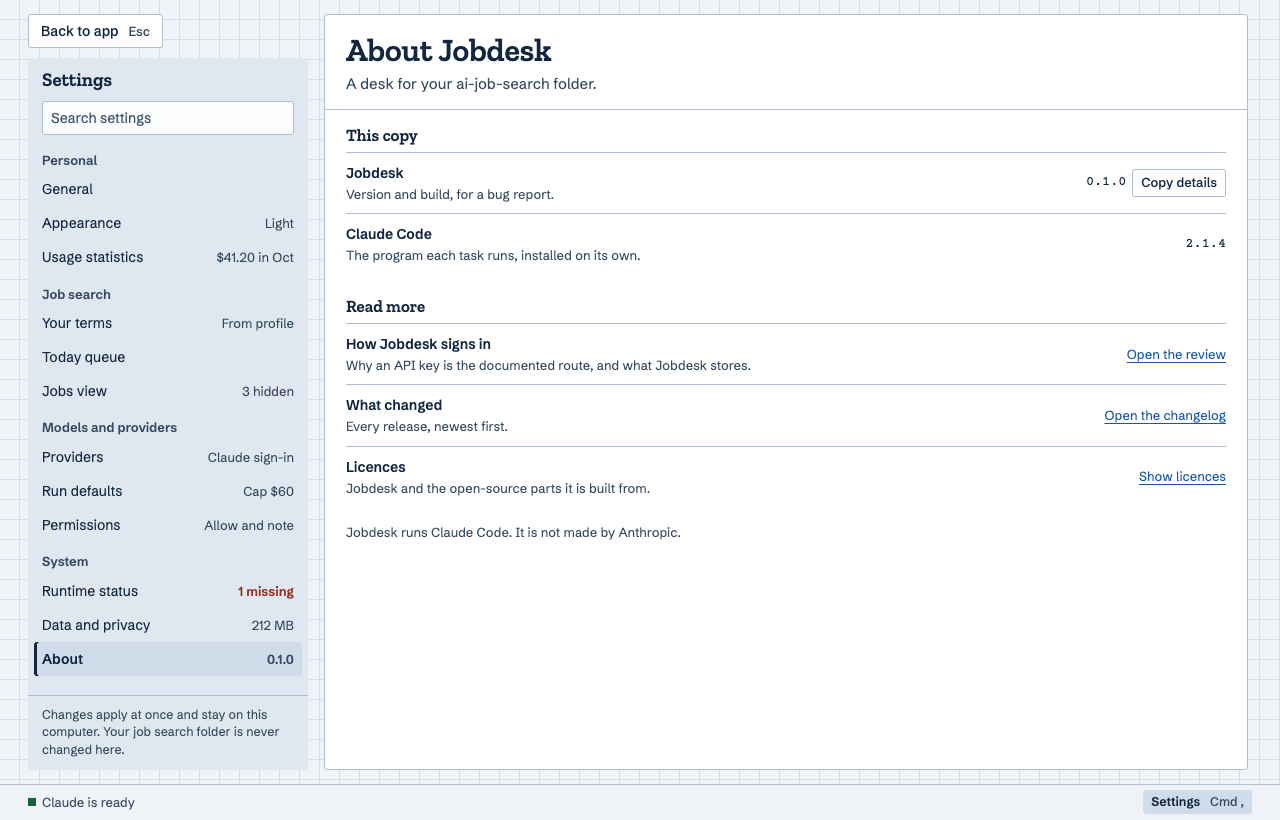
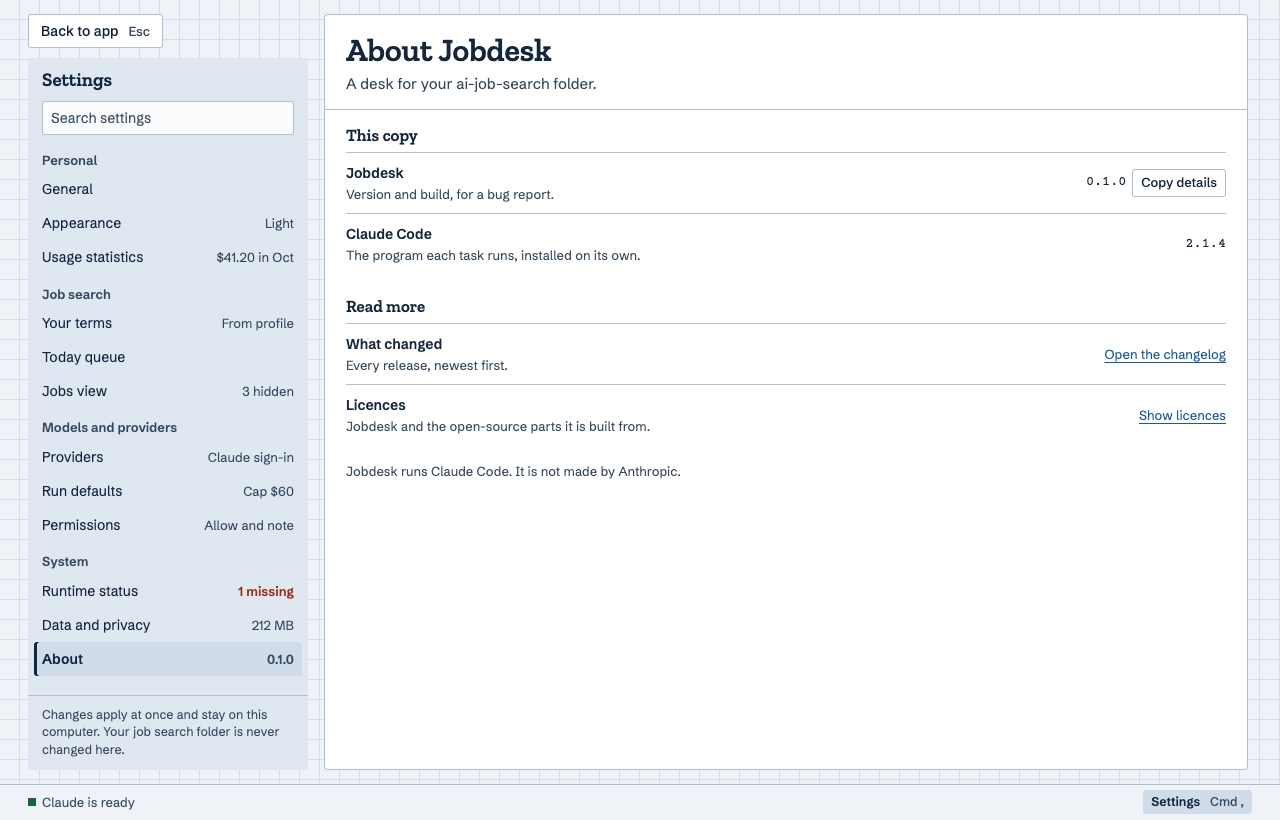
docs: refresh README and docs, drop the auth review (#39)
The README now shows one light-mode screenshot, and the docs match the
current app. The auth review page is gone, with its link in Settings.

- README shows a single light-mode screenshot and lists Settings
- Guide, architecture and contributing docs updated to match the code:
  Settings pages, Today queue, quit question, installers, release and CI
- Remove docs/auth-review.md and every link to it
- Remove the "How Jobdesk signs in" row from Settings › About

diff --git a/mockups/Settings.html b/mockups/Settings.html
@@ -610,7 +610,6 @@ function a_about() {
       sr('Jobdesk', 'Version and build, for a bug report.', '<span class="path">0.1.0</span>' + B('Copy details', 'sm')) +
       sr('Claude Code', 'The program each task runs, installed on its own.', '<span class="path">2.1.4</span>')) +
     sec('Read more', '',
-      sr('How Jobdesk signs in', 'Why an API key is the documented route, and what Jobdesk stores.', `<span class="lk">Open the review</span>`) +
       sr('What changed', 'Every release, newest first.', `<span class="lk">Open the changelog</span>`) +
       sr('Licences', 'Jobdesk and the open-source parts it is built from.', `<span class="lk">Show licences</span>`)) +
     `<p class="muted" style="margin-top: 16px; font-size: 13px">Jobdesk runs Claude Code. It is not made by Anthropic.</p>`;

diff --git a/src/settings/ui/about.rs b/src/settings/ui/about.rs
@@ -5,8 +5,7 @@ use crate::settings::ui::page_note;
 use crate::ui_kit::tokens::DISABLED_OPACITY;
 use crate::ui_kit::{Ink, Type, enabled_when, link, rich, setting_row, setting_section, small_button};
 
-/// Where the review of how Jobdesk signs in, and the changelog, are read. Fixed `https` addresses, never read from a file.
-const REVIEW_URL: &str = "https://github.com/Nicolas-Widart-SRL/jobdesk/blob/main/docs/auth-review.md";
+/// Where the changelog is read. A fixed `https` address, never read from a file.
 const CHANGELOG_URL: &str = "https://github.com/Nicolas-Widart-SRL/jobdesk/blob/main/CHANGELOG.md";
 /// Why Show licences waits: the repository has no licence file to show yet.
 const NO_LICENCES: &str = "Not available yet.";
@@ -22,9 +21,7 @@ pub struct AboutView<'a> {
 
 /// The two versions with Copy details, the links to read more, then who makes Jobdesk. No logo shows anywhere.
 pub fn body(ui: &mut Ui, view: AboutView, query: &str) {
-    let &[this_copy, jobdesk, jobdesk_help, claude, claude_help, read_more, signs_in, signs_in_help, changed, changed_help, licences, licences_help, maker] =
-        index(Page::About)
-    else {
+    let &[this_copy, jobdesk, jobdesk_help, claude, claude_help, read_more, changed, changed_help, licences, licences_help, maker] = index(Page::About) else {
         return;
     };
     setting_section(ui, this_copy, None, query);
@@ -47,7 +44,6 @@ pub fn body(ui: &mut Ui, view: AboutView, query: &str) {
         }
     });
     setting_section(ui, read_more, None, query);
-    setting_row(ui, signs_in, signs_in_help, query, |ui| open(ui, "Open the review", REVIEW_URL));
     setting_row(ui, changed, changed_help, query, |ui| open(ui, "Open the changelog", CHANGELOG_URL));
     setting_row(ui, licences, licences_help, query, |ui| {
         // A link paints no disabled look of its own, so it fades here.

diff --git a/src/settings/domain/pages.rs b/src/settings/domain/pages.rs
@@ -265,15 +265,13 @@ const DATA: [&str; 11] = [
 ];
 
 /// The versions, the links, then the line on who makes Jobdesk.
-const ABOUT: [&str; 13] = [
+const ABOUT: [&str; 11] = [
     "This copy",
     "Jobdesk",
     "Version and build, for a bug report.",
     "Claude Code",
     "The program each task runs, installed on its own.",
     "Read more",
-    "How Jobdesk signs in",
-    "Why an API key is the documented route, and what Jobdesk stores.",
     "What changed",
     "Every release, newest first.",
     "Licences",

diff --git a/src/settings/ui/mod.rs b/src/settings/ui/mod.rs
@@ -1239,7 +1239,7 @@ mod tests {
         harness.get_by_label("About Jobdesk");
         harness.get_by_label("2.1.4");
         assert!(harness.get_by_label("Show licences").accesskit_node().is_disabled(), "there is no licence file to show yet");
-        assert!(!harness.get_by_label("Open the review").accesskit_node().is_disabled());
+        assert!(!harness.get_by_label("Open the changelog").accesskit_node().is_disabled());
     }
 
     #[test]

diff --git a/docs/guide.md b/docs/guide.md
@@ -6,13 +6,13 @@ Jobdesk is a native macOS and Windows view over an [ai-job-search](https://githu
 
 ## Today
 
-Today is the home screen: one queue of decisions, one card at a time, with paused runs first, then deadlines, then the rest. The day stamp counts what you decided today, and Coming up lists the next two weeks' deadlines, with a button to bring back what you set aside. Settings › Today queue changes the range to 7 or 30 days, and the same range decides which deadlines come before the rest.
+Today is the home screen: one queue of decisions, one card at a time, with paused runs first, then deadlines, then the rest. The day stamp counts what you decided today, and Coming up lists the next two weeks' deadlines, with a button to bring back what you set aside. Settings › Today queue changes the range to 7, 14 or 30 days, and the same range decides which deadlines come before the rest.
 
 Y opens the suggested task, L sets the card aside (Coming up shows how many, and its button brings them back to the front, after any paused run) until tomorrow, or for as long as Settings › Today queue says, but never past the card's own date, unless that date is the day you press L or earlier: then it comes back the day after you pressed L, N skips, U undoes the last decision. Until your next one, and only that day, it waits at the top of Done today, where a skip also takes its optional reason. The reasons are your list in Settings › Today queue. A followed card's note names the task it opened, for example "Task opened: draft application".
 
 The card's actions stay pinned under it, and Show the command reveals the command line a task would run. Y opens the slash command in the launcher, and nothing runs until you start it. Permission, question, guard and Your turn cards have no Y action. Skip reasons stay in the app's data folder, and a past skip keeps its reason after you take that reason off the list.
 
-When nothing is left to decide, Today offers Find new jobs…. It shows a loading view while your files first load, and a welcome with three steps until you choose a folder. Its second step points to Profile, which shows each topic, what is filled in and what is missing.
+When nothing is left to decide, Today offers Find new jobs…, and Score 1 new job… or Score N new jobs… while new jobs wait to be scored. Both only open the launcher. Today shows a loading view while your files first load, and a welcome with three steps until you choose a folder. Its second step points to Profile, which shows each topic, what is filled in and what is missing.
 
 ## Jobs, Applications and Insights
 
@@ -36,6 +36,8 @@ When Claude waits on you, the Tasks tab counts it, Recent runs tags the run Your
 
 End session asks first, and Keep it open is the default. New task (Cmd+K, Ctrl+K on Windows) opens the command launcher, even while you type in a field. In the launcher, Cmd+Enter (Ctrl+Enter on Windows) runs the task, and Esc goes back.
 
+Quitting while a Claude session is open asks first. Keep working is the default, and Esc keeps working too. End session and quit ends the session, and you can resume it later from Tasks.
+
 ## One run at a time
 
 Only one run works at a time, because two commands could overwrite each other's files. A session waiting for your reply lets a new run start only once its turn has ended and all its background agents have finished. A Save on the Profile screen waits for the run too.
@@ -46,20 +48,20 @@ Text in Claude's messages and questions, your replies, error alerts, command lin
 
 ## Settings
 
-Settings (Cmd+, , Ctrl+, on Windows, or Settings at the right of the status bar) replaces the menu and the screen until you press Back to app or Esc. A task keeps running meanwhile, and the status bar says when one waits for you. The rail groups the sections. A word beside a section says its state where it has one: the theme beside Appearance, what is missing or still to fill beside Runtime status, this month's spend beside Usage statistics, the sign-in tasks use, or Key refused, beside Providers, and how many of your terms are not stated, or Hidden when their file cannot be read, beside Your terms. Search keeps only the sections with a match and marks the matched words. Esc clears the search first. Changes apply at once and stay on this computer. If the settings file cannot be read, the rail's foot says so: the defaults are in use, and your next change replaces the file. If a change cannot be saved, it says the change lasts until Jobdesk closes. On the first launch after the theme moved into Settings, the theme and text size you had are kept. An older version of Jobdesk drops the settings it does not know the next time it saves the settings file, so it forgets the sign-in you chose and its tasks use the Claude sign-in. Your API key stays in the keychain. Back on this version, choose Use for tasks on the API key again.
+Settings (Cmd+, on macOS, Ctrl+, on Windows, or Settings at the right of the status bar) replaces the menu and the screen until you press Back to app or Esc. A task keeps running meanwhile, and the status bar says when one waits for you. The rail groups the sections under Personal, Job search, Models and providers, and System, in the order below. A word beside a section says its state where it has one: the theme beside Appearance, what is missing or still to fill beside Runtime status, this month's spend beside Usage statistics, the sign-in tasks use, or Key refused, beside Providers, and how many of your terms are not stated, or Hidden when their file cannot be read, beside Your terms. Search keeps only the sections with a match and marks the matched words. Esc clears the search first. Changes apply at once and stay on this computer. If the settings file cannot be read, the rail's foot says so: the defaults are in use, and your next change replaces the file. If a change cannot be saved, it says the change lasts until Jobdesk closes. On the first launch after the theme moved into Settings, the theme and text size you had are kept. An older version of Jobdesk drops the settings it does not know the next time it saves the settings file, so it forgets the sign-in you chose and its tasks use the Claude sign-in. Your API key stays in the keychain. Back on this version, choose Use for tasks on the API key again.
 
 - General: your job search folder, with Show in Finder (Show in Explorer on Windows) and Change folder, and the screen Jobdesk opens on. Without a folder, Jobdesk opens on Today. While a Claude session is open, even one waiting on your reply, Change folder waits here and on Setup, so the task keeps its folder. In Tasks, stop it (Stop run) if it is working, then end it (End session).
 - Appearance: the theme (System, Light or Dark), the text size from 90 to 150 percent (Cmd + and Cmd −, Ctrl + and Ctrl − on Windows, change it too), and Reduce motion, which drops the card slide and the day stamp's fill.
-- Runtime status: Claude Code's version and the sign-in the last task used, then how many profile topics are filled, with Open Profile, and your tools, portals, templates and sync, as Setup shows them. The tools' ready count leaves out Claude Code, which has its own row above. Until a folder is chosen and read, only Claude Code and the tools show, and a search matches only those.
 - Usage statistics: what your tasks cost and did, from Jobdesk's own run logs for this folder. It counts tasks only and fetches nothing. A period toggle picks the current month, the last 90 days, This year or All time. Four figures follow: Spent, Tokens in (with tokens out in the note), Cache hits, and Tasks, split into finished, stopped and failed. Per application sent divides every task's cost by the applications you marked sent in the period, and hides when there are none. Below sit the last 12 months by day: hover a day, or Tab to a day with tasks, to see its date, tasks and spend. Then come two tables, By command and By model.
-- Your terms: the lines a job may not cross, which Jobs checks every posting against: the contract rule, Freelance only, your day-rate floor from `01-candidate-profile.md`, and your commute tiers from `04-job-evaluation.md`. Jobdesk only shows them: change them on Profile or with Update with Claude…, which opens the launcher. A term your files do not state reads Not stated, and its check reads Unclear instead of guessing. Without commute tiers, a fully remote job still passes the commute check, and a place the location check ruled out still fails it. When a file cannot be read, its terms are hidden, not gone, and Update with Claude… waits until it reads again.
+- Your terms: the lines a job may not cross, which Jobs checks every posting against: the contract rule, Freelance only, your day-rate floor from `01-candidate-profile.md`, and your commute tiers from `04-job-evaluation.md`. Jobdesk only shows them: change them with Edit in Profile, which opens Profile, or with Update with Claude…, which opens the launcher. A term your files do not state reads Not stated, and its check reads Unclear instead of guessing. Without commute tiers, a fully remote job still passes the commute check, and a place the location check ruled out still fails it. When a file cannot be read, its terms are hidden, not gone, and Update with Claude… waits until it reads again.
 - Today queue: the Coming up range (7, 14 or 30 days, 14 by default), which also sets which deadlines Today deals before the rest; how long Later lasts (until tomorrow, the default, 3 days, or until Monday); and the skip reasons a skip offers, Rate, Scope, Domain and Location by default. Add or remove reasons, up to 8 of 40 characters each. Past skips keep their reasons, and a reason stays optional. A card set aside keeps the return day it had when you pressed L, unless a deadline it gets meanwhile comes first: then it comes back on that day, or the day after you pressed L when the deadline is the day you pressed L or already past.
 - Jobs view: hide jobs that fail the day-rate, commute or language check, jobs scored under a number (60 by default), and jobs the safety check flagged. All start off. The filters hide rows only: no job changes list, because `/rank` keeps the lists. A flagged ad still comes to Today as Check this ad, and once you keep it there, Jobs shows it again. A job not yet scored is never hidden by the score.
 - Providers: how tasks sign in. Claude sign-in, the default, uses the sign-in of your installed Claude Code, and Jobdesk stores nothing for it. To switch account, run `claude` in a terminal, then `/login`. API key: paste an Anthropic Console key and choose Save key. Jobdesk keeps it in the macOS Keychain (the Credential Manager on Windows), never in a file, and tests it at once. While a task is open, or another test is finishing, it waits at Not tested yet instead: choose Test connection or Use for tasks once that ends. Tasks switch to the key only once the test passes, so a mistyped key never breaks your next task, and a refused key leaves them on the Claude sign-in. A saved key shows only as `sk-ant-`, dots and its last four characters. Replace opens the field again, and Remove asks first, then deletes the key and puts tasks back on the Claude sign-in. Test connection asks Claude Code one fixed question, with no tools, in an empty temporary folder. It costs about a cent, is not a task and is not counted in Usage statistics, and it waits while a task runs. When it fails, it shows what Claude Code said. If `ANTHROPIC_BASE_URL`, or a proxy variable such as `HTTP_PROXY`, would send the key over plain http, Jobdesk refuses to send it, and neither a task nor Test connection starts: use https, or http to this machine only, with no proxy variable set. Cloud providers come later.
 - Run defaults: the model and Spend at most that each new task starts from, a table of commands with their own model and budget (a command's row beats the defaults, and Add a command picks from the commands Jobdesk knows), and a monthly cap. Left empty, Spend at most keeps each command's suggested budget. You can still change both in the launcher. At or over the cap, Run is disabled with the reason and a link back to the cap, and it opens again on the 1st. A task already running is not stopped, and replies in a session already open still send. The cap counts this month's tasks in the open folder, as Usage statistics does. Right after a task ends, Run waits until its cost is read.
 - Permissions: Allow and note in the activity, the default, or Ask me before each tool. Either way, questions from Claude always reach you, and a rule you let it remember lasts only until the task ends and is never saved to your folder.
+- Runtime status: Claude Code's version and the sign-in the last task used, then how many profile topics are filled, with Open Profile, and your tools, portals, templates and sync, as Setup shows them. The tools' ready count leaves out Claude Code, which has its own row above. Until a folder is chosen and read, only Claude Code and the tools show, and a search matches only those.
 - Data and privacy: where Jobdesk keeps its data, with the size of the run logs and the tray decisions. Keep run logs for 30 days, 90 days or Forever, which is the default. A shorter time deletes older logs when Jobdesk starts, never those of the current month, and Usage statistics then counts only the logs kept. Clear tray decisions asks first and forgets what you decided on Today in this folder, with the reasons given for past skips. Your list of skip reasons stays, and other folders keep theirs.
-- About: the Jobdesk and Claude Code versions with Copy details for a bug report, and links to the auth review and the changelog. The licences are not available there yet.
+- About: the Jobdesk and Claude Code versions with Copy details for a bug report, and a link to the changelog. The licences are not available there yet.
 
 ## Profile
 
@@ -71,7 +73,7 @@ Update with Claude… opens the launcher on `/setup --section` for that topic, a
 
 When a task ends, each topic it changed carries Updated on the rail, and the topic's head says which blocks changed and when. Opening the topic clears its rail mark, and leaving it removes the head line. The marks compare your profile when the task started with the first read after it ended, so a change made outside Jobdesk while a task runs is marked too. They last until Jobdesk closes.
 
-Edit on a role or block, and Edit section on a section, open its text in place. Add a role opens a new one after the last role, and Write it myself opens the whole section. One editor is open at a time. Preview shows the draft as the paper will. Save (Cmd+Enter, Ctrl+Enter on Windows) writes only that block and leaves the rest of the file as it was. Cancel (Esc) closes the editor. While you type, the first Esc leaves the field. With unsaved text, Cancel, opening another topic and leaving the tab ask first, and Keep editing is the default.
+Edit on a role or block, and Edit section on a section, open its text in place. Add a role opens a new one after the last role, and Write it myself opens the whole section. One editor is open at a time. Preview shows the draft as the paper will. Save (Cmd+Enter, Ctrl+Enter on Windows) writes only that block and leaves the rest of the file as it was. Cancel (Esc) closes the editor. While you type, the first Esc leaves the field. With unsaved text, Cancel, opening another topic, leaving the tab, changing folder and quitting ask first, and Keep editing is the default.
 
 While a task runs, Save waits, because the task may change the same file. Your draft stays, and you can save once the task ends and Jobdesk has read the files it changed, which takes a few seconds at most. Just before it writes, Save reads the block again. If it changed on disk since you opened it, Save writes nothing and shows Changed on disk with the block's new lines. Use the new version replaces your draft with them, and Save mine over it writes your draft over them. If the block is gone from the file, Save mine over it puts your draft back at the end of its section, or at the end of the file when its section is gone too. Changes elsewhere in the file never stop a Save.
 

diff --git a/CONTRIBUTING.md b/CONTRIBUTING.md
@@ -22,19 +22,21 @@ cargo install cargo-packager --locked --version 0.11.8
 cargo packager --release --formats app,dmg
 ```
 
-Output lands in `target/packages`. On Windows use `--formats nsis`. Run the Installers workflow from the Actions tab to build both installers for a branch.
+Output lands in `target/packages`. On Windows use `--formats nsis`. Run the Installers workflow from the Actions tab to build both installers for a branch. It uploads them as the `dmg` and `setup` artifacts, named `Jobdesk-vX.Y.Z-<commit>-macos-arm64.dmg` and `Jobdesk-vX.Y.Z-<commit>-windows-x64-setup.exe`. Its `quick` option skips clippy and tests, and adds `-untested` after the commit in the names. A release build names them after the tag, with no commit: `Jobdesk-vX.Y.Z-macos-arm64.dmg` and `Jobdesk-vX.Y.Z-windows-x64-setup.exe`.
 
 These builds are not signed with a developer identity. macOS warns on other machines until the app is signed with a Developer ID and notarized. Windows warns because the installer is unsigned, and SmartScreen can keep warning after signing until the certificate builds a reputation. The app icons live in `assets/brand/`.
 
 ## Release
 
-1. Run the Release workflow from the Actions tab on `main`. It picks the next version from the Conventional Commits since the last tag, and opens a `release/vX.Y.Z` pull request with the new `CHANGELOG.md` section and version.
+1. Run the Release workflow from the Actions tab on `main`. With the `auto` bump, the default, it picks the next version from the Conventional Commits since the last tag. Choose `patch`, `minor` or `major` to force one. It opens a `release/vX.Y.Z` pull request with the new `CHANGELOG.md` section and version.
 2. Review the changelog on that branch, then merge the pull request.
-3. The Tag release workflow builds both installers on the merge commit, then tags it and publishes the GitHub release with the changelog section as its notes.
+3. The Tag release workflow tests and builds both installers on the merge commit, then tags it and publishes the GitHub release with the changelog section as its notes and the installers attached.
+
+A failed build leaves no tag. Rerunning failed jobs rebuilds the same commit, so it helps only with a flaky or infrastructure failure. For a code failure, merge the fix into `main` through a normal pull request, then run the Tag release workflow by hand with the tag. It builds the current `main` commit, then tags and publishes the same way.
 
 The Release workflow needs the `RELEASE_TOKEN` secret: a fine-grained personal access token with Contents and Pull requests read and write on this repository. A pull request opened with the default token would not start CI.
 
-`scripts/release.sh` prepares the same release branch locally. It needs [git-cliff](https://git-cliff.org) and `jq`.
+`scripts/release.sh [auto|patch|minor|major]` prepares the same release branch locally from a clean working tree. It needs [git-cliff](https://git-cliff.org), `jq`, `perl` and `cargo`.
 
 ## Test
 
@@ -58,9 +60,9 @@ Screen tests render every screen in both themes from `tests/sample_workspace`, w
 UPDATE_SNAPSHOTS=1 cargo test --test screens --test ui_kit_gallery
 ```
 
-Refresh snapshots on macOS only, so every baseline comes from one renderer. `UPDATE_SNAPSHOTS=1` skips changes under the 200-pixel tolerance. Use `UPDATE_SNAPSHOTS=force` to rewrite every baseline.
+Refresh snapshots on macOS only, so every baseline comes from one renderer. `UPDATE_SNAPSHOTS=1` skips changes under the 200-pixel tolerance. Use `UPDATE_SNAPSHOTS=force` to rewrite every baseline. A failing snapshot writes `<name>.new.png` and `<name>.diff.png` beside the baseline. Git ignores them, and CI uploads them as the `snapshots` artifact.
 
-CI also builds and tests on Windows: a job on `windows-latest` runs clippy with `-D warnings` and `cargo test`. Snapshot renders and compares run on macOS only, behind the `SNAPSHOTS` gate in `tests/screens.rs` and `tests/ui_kit_gallery.rs`. Every other assertion in those files runs on every system. Tests marked `#[cfg(windows)]` run only in the Windows job.
+CI skips formatting, build and tests when a change touches only Markdown. The macOS job measures coverage with `cargo llvm-cov` and uploads the HTML report as the `coverage` artifact. CI also builds and tests on Windows: a job on `windows-latest` runs clippy with `-D warnings` and `cargo test`. Snapshot renders and compares run on macOS only, behind the `SNAPSHOTS` gate in `tests/screens.rs` and `tests/ui_kit_gallery.rs`. Other UI assertions in those files run on every system. Tests marked `#[cfg(windows)]` run only in the Windows job.
 
 `.gitattributes` checks text out with LF on every system (`* text=auto eol=lf`) and keeps PNG and PDF files binary. So a test that needs a CRLF file builds it from the LF one itself.
 
@@ -85,7 +87,7 @@ cargo install cargo-audit --locked
 cargo audit
 ```
 
-When the audit job fails on an advisory, update the dependency if a fixed release exists. Otherwise add the advisory id to `ignore` under `[advisories]` in `.cargo/audit.toml`. Put the reason in a comment beside it:
+When the audit job fails on an advisory, update the dependency if a fixed release exists. Otherwise add the advisory id to `ignore` under `[advisories]` in `.cargo/audit.toml`, and create that file if it is not there yet. Put the reason in a comment beside it:
 
 ```toml
 [advisories]

diff --git a/README.md b/README.md
@@ -15,18 +15,16 @@ Jobdesk is a native macOS and Windows app, built in Rust, over the [ai-job-searc
 
 ## What it does
 
-- **Today** deals your decisions one card at a time: Y opens the suggested task, L sets it aside until tomorrow, N skips, U undoes.
+- **Today** deals your decisions one card at a time: Y opens the suggested task, L sets it aside (until tomorrow by default), N skips, U undoes.
 - **Jobs, Applications and Insights** update live as commands change your files.
 - **Tasks** starts any slash command and shows its progress, Claude's questions, the cost and the history.
 - **Profile** shows what Claude reads about you, topic by topic, opens the setup task for one topic, and lets you edit a block in place.
 - **Application dossiers** gather the PDFs, verification, keyword coverage, evaluation, prep packs and follow-ups of each application.
+- **Settings** shows what your tasks cost and the terms Jobs checks against. It sets the theme, the Today queue, the Jobs view filters, how tasks sign in, run defaults, a monthly cap, tool permissions and how long run logs stay.
 - **Nothing runs until you start it**, and Jobdesk changes your checkout only when you save a Profile edit.
 
 <p align="center">
-  <picture>
-    <source media="(prefers-color-scheme: dark)" srcset="tests/snapshots/intray_dark.png">
-    <img src="tests/snapshots/intray_light.png" alt="The Today screen, with one decision card and the Coming up deadlines." width="800">
-  </picture>
+  <img src="tests/snapshots/intray_light.png" alt="The Today screen in the light theme, with one decision card, Done today and the Coming up deadlines." width="800">
 </p>
 
 ## Install
@@ -54,7 +52,7 @@ Slash commands write your checkout, and Jobdesk writes only the profile block yo
 
 ## Authentication
 
-Jobdesk runs your installed Claude Code CLI. Tasks use Claude Code's own sign-in, or an Anthropic Console API key you paste in Settings › Providers, kept in the system keychain and passed only to the Claude Code process of each task. It is not made or endorsed by Anthropic. Read [docs/auth-review.md](docs/auth-review.md) before distributing it.
+Jobdesk runs your installed Claude Code CLI. Tasks use Claude Code's own sign-in, or an Anthropic Console API key you paste in Settings › Providers, kept in the system keychain and passed only to the Claude Code process of each task. It is not made or endorsed by Anthropic.
 
 ## More
 

diff --git a/.claude/agent-memory/reviewer/MEMORY.md b/.claude/agent-memory/reviewer/MEMORY.md
@@ -51,3 +51,11 @@ PR 40 docs/architecture/settings.md: "the theme and zoom eframe restored are kep
 PR 40 docs/architecture/today-queue.md: the rank order left out that an overdue date ranks before the rest, ahead of dates in the Coming up range. Class: copy says less than the code does.
 PR 40 docs/architecture/trust.md: did not say `within_workspace` is lexical and resolves no symlink, so an in-workspace link can lead a dossier read outside the workspace. Class: copy claims more than the code does.
 PR 40 docs/architecture/trust.md: said the mask holds no quote or backslash, but it copies a long key's last four and `ApiKey::parse` accepts `"` and `\`. Class: copy claims more than the code does.
+PR 39 CONTRIBUTING.md: "Re-run failed jobs builds the same commit" mixed a noun form with a verb and a wrong tense. Class: grammar.
+PR 39 CONTRIBUTING.md: the `scripts/release.sh` prerequisites left out `perl`, which the script runs. Class: undocumented prerequisite.
+PR 39 CONTRIBUTING.md: "Every other assertion in those files runs on every system" claimed more than the files hold. Class: overclaim.
+PR 39 docs/guide.md: "Cmd+, , Ctrl+, on Windows" had a stray comma and named no platform for Cmd. Class: platform wording.
+PR 39 docs/guide.md: the Today section said the range is 7 or 30 days while the code and the Settings section offer 7, 14 or 30. Class: inconsistent values.
+PR 39 ARCHITECTURE.md: said every `can_use_tool` request shows its input shortened past 20 KB, while `AskUserQuestion` becomes a question prompt and only a permission prompt's displayed detail is cut at 20,000 bytes, the answer keeping the full input. Class: overclaim.
+PR 39 CONTRIBUTING.md: gave only the branch-run installer names with a commit segment, while a tag release names them after the tag with no commit. Class: incomplete naming.
+PR 39 mockups/Settings.html: canvas row for removed About row not updated with the code change. Class: stale mockup.

diff --git a/.claude/agents/planner.md b/.claude/agents/planner.md
@@ -15,8 +15,7 @@ You turn one task into a plan. You never write code.
 
 - Never edit, create or delete a file, except in your memory. Use Bash only to read: `trail`, `git log`, `git show`, `ls`, `cargo metadata`.
 - Never run `claude` or a slash command, and never read a real `ai-job-search` checkout. The plan must not need real data.
-- Follow `AGENTS.md`. Read `ARCHITECTURE.md` before you plan a new feature or a change to layers, and the matching file in `docs/architecture/` (`runs.md`, `trust.md`, `profile.md`, `settings.md`, `today-queue.md`, `discovery.md` or `ui-kit.md`) for the topic the task touches,
-  and `docs/auth-review.md` before you plan a change to authentication, naming or distribution.
+- Follow `AGENTS.md`. Read `ARCHITECTURE.md` before you plan a new feature or a change to layers, and the matching file in `docs/architecture/` (`runs.md`, `trust.md`, `profile.md`, `settings.md`, `today-queue.md`, `discovery.md` or `ui-kit.md`) for the topic the task touches.
 
 ## Memory
 
@@ -64,7 +63,7 @@ Never write a value from a real job search in it.
 - **Steps**: numbered. Each step has a title as a Conventional Commits subject, the files,
   what to change, the check, and the written-down, docs and risky marks when they apply.
 - **Waves**: which steps build in parallel, for example `Wave 1: 1, 2. Wave 2: 3.`
-- **Docs**: which of `README.md`, `docs/guide.md`, `CONTRIBUTING.md`, `ARCHITECTURE.md`, `AGENTS.md` and `docs/auth-review.md` change, and in which step.
+- **Docs**: which of `README.md`, `docs/guide.md`, `CONTRIBUTING.md`, `ARCHITECTURE.md` and `AGENTS.md` change, and in which step.
 - **Defaults**: each question with a conventional answer, and the answer you chose. Decide these yourself.
 - **Open questions**: only product, security or data questions the user must answer before a builder starts.
   "None" is a valid answer, and lets the lead go on without stopping.

diff --git a/ARCHITECTURE.md b/ARCHITECTURE.md
@@ -26,7 +26,7 @@ Each feature is a bounded context with its own language.
 | `workspace` | workspace root, portal, tool check | the checkout folder; installed tools; file changes; profile's application layer |
 | `settings` | preference, page, search hit, run default, command override, spend cap, retention, sign-in method, API key, connection test, Coming up range, Later length, skip reason list, Jobs view filter | its own `settings.json` in the data folder; the system keychain, through a port in `domain` and adapters in `infrastructure`; through the `Snapshot`: runs' and tracking's application layers and discovery's terms; through the shell: workspace's readiness, the count of jobs the Jobs view hides, the data folder's sizes and the tray decision count |
 
-Screen names differ from feature names: `intray` is Today, `tracking` is Applications, `runs` is Tasks, `profile` is Profile, `workspace` is Setup, and `settings` is Settings. Runtime status is drawn by workspace's UI and placed in Settings by the shell.
+Screen names differ from feature names: `intray` is Today, `discovery` is Jobs, `tracking` is Applications, `dossier` is an application's dossier, `runs` is Tasks, `profile` is Profile, `workspace` is Setup, and `settings` is Settings. Runtime status is drawn by workspace's UI and placed in Settings by the shell.
 
 Three modules are not features:
 

diff --git a/docs/architecture/trust.md b/docs/architecture/trust.md
@@ -85,7 +85,7 @@ By default `RunDesk` allows every tool permission itself and records each one as
 This trades away the prompt as a check against injected posting text. Postings rely on `posting_guard` in the workspace instead.
 
 - Questions from `AskUserQuestion` always reach the user.
-- With `ask_permission` on, which Settings › Permissions exposes, every `can_use_tool` request reaches the user with its input, marked as shortened past 20 KB.
+- The shell hands Settings › Permissions to `RunDesk::set_asks_permission`, which holds from the next poll on. With prompts on, every other `can_use_tool` request reaches the user as a permission prompt. Its detail shows a `Bash` command, or any other tool's input as JSON, cut past 20,000 bytes with a note of how many bytes it left out. The answer sends the complete input back.
 - The CLI suggests saving allow rules to project settings. So `stream_json` rewrites every remembered rule to session scope, to keep the checkout unchanged.
 
 ## Notices

diff --git a/AGENTS.md b/AGENTS.md
@@ -57,7 +57,6 @@ cargo packager --release --formats app,dmg              # nsis on Windows
 - [ARCHITECTURE.md](ARCHITECTURE.md): read before adding a feature or changing layers. Its Runtime section points to the file for each other topic.
 - [docs/architecture/runs.md](docs/architecture/runs.md): read before changing how a task starts, stops, signs in or waits on the user.
 - [docs/architecture/trust.md](docs/architecture/trust.md): read before changing how untrusted text renders, the API key's path or tool permissions.
-- [docs/auth-review.md](docs/auth-review.md): read before changing authentication, naming or distribution.
 - [README.md](README.md): the landing page and install guide.
 - [docs/guide.md](docs/guide.md): user-facing behavior, screen by screen.
 - [CONTRIBUTING.md](CONTRIBUTING.md): running, packaging, releasing and testing.
